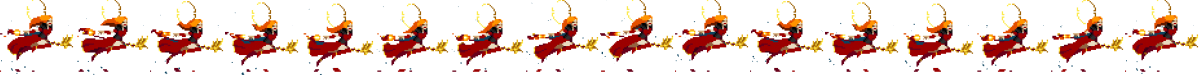
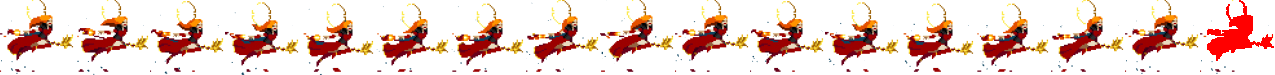
free all ressources, and adding a collision-proto

diff --git a/src/free.c b/src/free.c
@@ -1,0 +1,81 @@
+/*
+** EPITECH PROJECT, 2019
+** MUL_my_runner_2019
+** File description:
+** free
+*/
+
+#include "my_runner.h"
+
+void free_all(csfml_t *info, obj_t *obj, background_t *bg)
+{
+    free_enemy(obj->enemy);
+    free_bg(bg);
+    free_player(obj->player);
+    free_info(info);
+}
+
+void free_player(player_t *player)
+{
+    fireball_t *del = NULL;
+
+    sfSprite_destroy(player->sprite);
+    sfTexture_destroy(player->texture);
+    if (player->fireball != NULL) {
+        del = player->fireball;
+        while (player->fireball->next != NULL) {
+            player->fireball = player->fireball->next;
+            sfSprite_destroy(del->sprite);
+            sfTexture_destroy(del->texture);
+            free (del);
+            del = player->fireball;
+        }
+        sfSprite_destroy(player->fireball->sprite);
+        sfTexture_destroy(player->fireball->texture);
+    }
+    free (player->fireball);
+    free (player);
+}
+
+void free_info(csfml_t *info)
+{
+    sfText_destroy(info->txt);
+    sfRenderWindow_destroy(info->window);
+    sfClock_destroy(info->clock->bg_anim);
+    sfClock_destroy(info->clock->compute_score);
+    sfClock_destroy(info->clock->enemies_spawn);
+    sfClock_destroy(info->clock->enemy_anim);
+    sfClock_destroy(info->clock->fireball_anim);
+    sfClock_destroy(info->clock->fireball_as);
+    sfClock_destroy(info->clock->player_anim);
+    sfClock_destroy(info->clock->time_elapsed);
+}
+
+void free_enemy(enemy_t *enemy)
+{
+    enemy_t *del = enemy;
+
+    while (enemy->next != NULL) {
+        enemy = enemy->next;
+        sfSprite_destroy(del->sprite);
+        sfTexture_destroy(del->texture);
+        free (del);
+        del = enemy;
+    }
+    sfSprite_destroy(enemy->sprite);
+    sfTexture_destroy(enemy->texture);
+    free (enemy);
+}
+
+void free_bg(background_t *bg)
+{
+    sfTexture_destroy(bg->texture_back);
+    sfTexture_destroy(bg->texture_fore);
+    sfTexture_destroy(bg->next->texture_back);
+    sfTexture_destroy(bg->next->texture_fore);
+    sfSprite_destroy(bg->sprite_back);
+    sfSprite_destroy(bg->sprite_fore);
+    sfSprite_destroy(bg->next->sprite_back);
+    sfSprite_destroy(bg->next->sprite_fore);
+    free (bg->next);
+}

diff --git a/include/my_runner.h b/include/my_runner.h
@@ -75,7 +75,8 @@ typedef struct enemy
     sfSprite *sprite;
     sfVector2f *pos;
     sfIntRect *rect;
-    bool destroyed;
+    bool hited_by_player;
+    int health;
     struct enemy *next;
 } enemy_t;
 
@@ -104,7 +105,7 @@ int core(void);
 int errors(int arg_nb, char **env);
 sfRenderWindow *create_window(int width, int height);
 void animate_player(csfml_t *info, player_t *player);
-void move_player(csfml_t *info, player_t *player);
+void move_player(player_t *player);
 void disp_bg(csfml_t *info, background_t *bg);
 void init_info(csfml_t *info);
 sfRenderWindow *create_window(int width, int height);
@@ -115,7 +116,7 @@ int game(csfml_t *info, obj_t *obj, background_t *bg);
 int run_game(csfml_t *info, obj_t *obj, background_t *bg);
 void display_player(csfml_t *info, player_t *player);
 fireball_t *init_fireball(sfVector2f *pos);
-void free_all(csfml_t *info);
+void free_all(csfml_t *info, obj_t *obj, background_t *bg);
 int game_parameters(void);
 void launch_fireball(csfml_t *info, player_t *player);
 void gest_player(csfml_t *info, player_t *player);
@@ -132,6 +133,12 @@ void display_fireball(csfml_t *info, fireball_t *fireball);
 void anim_enemy(enemy_t **enemy,  csfml_t *info);
 void display_enemy(csfml_t *info, enemy_t *enemy);
 void new_enemy(enemy_t **enemy);
+void collision(csfml_t *info, obj_t *obj);
+void free_all(csfml_t *info, obj_t *obj, background_t *bg);
+void free_bg(background_t *bg);
+void free_enemy(enemy_t *enemy);
+void free_info(csfml_t *info);
+void free_player(player_t *player);
 
 //defines
 

diff --git a/src/core.c b/src/core.c
@@ -12,7 +12,6 @@ int core(void)
 {
     csfml_t info;
     obj_t obj;
-    player_t player;
     background_t bg;
     int status = 0;
 
@@ -20,7 +19,7 @@ int core(void)
     init_background(&bg);
     init_obj(&obj);
     status = game(&info, &obj, &bg);
-    free_all(&info);
+    free_all(&info, &obj, &bg);
     return (status);
 }
 
@@ -30,9 +29,9 @@ int game(csfml_t *info, obj_t *obj, background_t *bg)
 
     while (sfRenderWindow_isOpen(info->window) && status == 0) {
         sfRenderWindow_pollEvent(info->window, &info->my_event);
-        if (info->my_event.type == sfEvtClosed)
-            sfRenderWindow_destroy(info->window);
         status = run_game(info, obj, bg);
+        if (info->my_event.type == sfEvtClosed)
+            status = -1;
     }
     return (status);
 }
@@ -42,12 +41,10 @@ int run_game(csfml_t *info, obj_t *obj, background_t *bg)
     anim_bg(info, bg);
     gest_player(info, obj->player);
     spawn_enemies(info, &obj->enemy);
+    collision(info, obj);
     scale_score(info, obj->player);
     sfRenderWindow_display(info->window);
+    if (obj->player->health->hp == 0)
+        return (1);
     return (0);
-}
-
-void free_all(csfml_t *info)
-{
-    return;
 }

diff --git a/src/player_physic.c b/src/player_physic.c
@@ -10,19 +10,19 @@
 
 void gest_player(csfml_t *info, player_t *player)
 {
-    move_player(info, player);
+    move_player(player);
     animate_player(info, player);
     launch_fireball(info, player);
 }
 
-void move_player(csfml_t *info, player_t *player)
+void move_player(player_t *player)
 {
     if (sfKeyboard_isKeyPressed(sfKeySpace) && player->gravity > -10
     && player->pos->y > 50) {
-        player->gravity -= 1.2;
+        player->gravity -= 1.2 + (DIFFICULTY * 0.5);
     }
     else if (player->gravity < 8.5 && player->pos->y < 355) {
-        player->gravity += 1;
+        player->gravity += 1 + (DIFFICULTY * 0.5);
     }
     if (player->pos->y > 356 && !sfKeyboard_isKeyPressed(sfKeySpace))
         player->gravity = 0;
@@ -35,7 +35,7 @@ void animate_player(csfml_t *info, player_t *player)
 {
     sfTime time = sfClock_getElapsedTime(info->clock->player_anim);
 
-    if (time.microseconds > 50000 && player->rect->left != 1125) {
+    if (time.microseconds > 50000 && player->rect->left < 1125) {
         player->rect->left += 75;
         sfClock_restart(info->clock->player_anim);
     } else if (time.microseconds > 50000 && player->rect->left >= 1125) {

diff --git a/src/collision.c b/src/collision.c
@@ -1,0 +1,29 @@
+/*
+** EPITECH PROJECT, 2019
+** MUL_my_runner_2019
+** File description:
+** collision
+*/
+
+#include "my_runner.h"
+#include "csfml.h"
+
+void collision(csfml_t *info, obj_t *obj)
+{
+    enemy_t *tmp = NULL;
+
+    if (obj->enemy == NULL || obj->player == NULL)
+        return;
+    tmp = obj->enemy;
+    while (tmp != NULL){
+        if (dist(tmp->pos->x, tmp->pos->y, obj->player->pos->x,
+        obj->player->pos->y) <= 82 && tmp->hited_by_player == false) {
+            obj->player->health->hp -= 1;
+            tmp->hited_by_player = true;
+            obj->player->rect->left = 1200;
+            sfSprite_setTextureRect(obj->player->sprite, *obj->player->rect);
+            sfRenderWindow_drawSprite(info->window, obj->player->sprite, NULL);
+        }
+        tmp = tmp->next;
+    }
+}

diff --git a/src/initialisation/init_player.c b/src/initialisation/init_player.c
@@ -13,6 +13,7 @@ void init_player(player_t **player)
     (*player) = malloc(sizeof(player_t));
     (*player)->pos = malloc(sizeof(sfVector2f));
     (*player)->rect = malloc(sizeof(sfIntRect));
+    (*player)->health = malloc(sizeof(health_t));
     (*player)->texture = sfTexture_createFromFile("data/fire_mage_move.png",
                                                     NULL);
     (*player)->sprite = sfSprite_create();
@@ -25,10 +26,6 @@ void init_player(player_t **player)
     (*player)->gravity = 0;
     (*player)->fireball = NULL;
     (*player)->score = my_strdup("00000", 5);
+    (*player)->health->hp = MAX_HP;
     sfSprite_setTexture((*player)->sprite, (*player)->texture, sfTrue);
-}
-
-void init_health(player_t *player)
-{
-    player->health->hp = 3;
 }

diff --git a/src/paralax.c b/src/paralax.c
@@ -14,14 +14,14 @@ void anim_bg(csfml_t *info, background_t *bg)
 
     if (time.microseconds < 10000)
         return;
-    bg->pos_back->x -= 2;
-    bg->next->pos_back->x -= 2;
+    bg->pos_back->x -= 2 * (DIFFICULTY + 1);
+    bg->next->pos_back->x -= 2 * (DIFFICULTY + 1);
     if (bg->pos_back->x < -2534)
         bg->pos_back->x = 2534;
     if (bg->next->pos_back->x < -2534)
         bg->next->pos_back->x = 2534;
-    bg->pos_fore->x -= 5;
-    bg->next->pos_fore->x -= 5;
+    bg->pos_fore->x -= 5 * (DIFFICULTY + 1);
+    bg->next->pos_fore->x -= 5 * (DIFFICULTY + 1);
     if (bg->pos_fore->x < -2534)
         bg->pos_fore->x = bg->next->pos_fore->x + 2534;
     if (bg->next->pos_fore->x < -2534)

diff --git a/lib/my/include/my.h b/lib/my/include/my.h
@@ -27,6 +27,7 @@ int my_printf(char *str, ...);
 int my_putlongnbr(long int nb);
 int my_putlonglongnbr(long long int nb);
 int my_strncmp(char const *s1, char const *s2, int n);
+int dist(int xA, int yA, int xB, int yB);
 int my_strcmp(char const *s1, char const *s2);
 
 

diff --git a/include/game_parameters.h b/include/game_parameters.h
@@ -9,7 +9,7 @@
 #define GAME_PARAMETERS_H_
 
 #define MAX_HP (3)
-#define DIFFICULTY (2) //difficulty level: 0, 1, 2
+#define DIFFICULTY (1) //difficulty level: 0, 1, 2
 #define WINDOW_LEN (1267) //BASE LEN: 1267; MAX_LEN: 2534
 
 #endif /* !GAME_PARAMETERS_H_ */

diff --git a/lib/my/maths/dist.c b/lib/my/maths/dist.c
@@ -1,0 +1,14 @@
+/*
+** EPITECH PROJECT, 2019
+** MUL_my_runner_2019
+** File description:
+** dist
+*/
+
+#include "my.h"
+#include "math.h"
+
+int dist(int xA, int yA, int xB, int yB)
+{
+    return (sqrt(pow((xB - xA), 2) + pow((yB - yA), 2)));
+}
